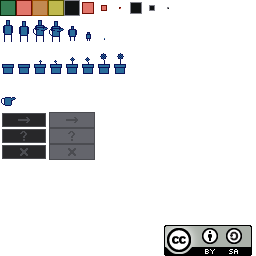
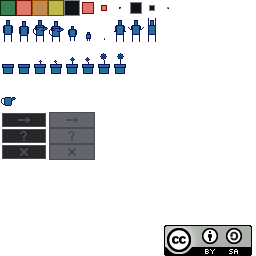
Victory animation

Changed region(s): [[0.4375, 0.0625, 0.625, 0.1562]]

diff --git a/game/draw.go b/game/draw.go
@@ -16,7 +16,6 @@ along with this program.  If not, see <https://www.gnu.org/licenses/>.
 package game
 
 import (
-	"fmt"
 	"image"
 	"image/color"
 	"strconv"
@@ -142,28 +141,42 @@ func (g *Game) Draw(screen *ebiten.Image) {
 					var object image.Rectangle
 					switch g.CurrentLevel.ObjectsGrid[y][x] {
 					case level.Player:
-						switch g.PlayerState {
-						case HoldingNothing:
-							object = image.Rect(
-								0+16*g.PlayerAnimationStep, 16,
-								16+16*g.PlayerAnimationStep, 48,
-							)
-						case HoldingWater:
-							object = image.Rect(
-								32+16*g.PlayerAnimationStep, 16,
-								48+16*g.PlayerAnimationStep, 48,
-							)
-						case Dead:
-							if g.PlayerAnimationStep < deathSteps.animationSteps {
+						if g.GameState == LevelFinished {
+							if endLevelStepName(g.EndLevelStep) == congrats {
 								object = image.Rect(
-									64+16*g.PlayerAnimationStep, 16,
-									80+16*g.PlayerAnimationStep, 48,
+									112+16*g.EndLevelAnimationStep, 16,
+									128+16*g.EndLevelAnimationStep, 48,
 								)
 							} else {
 								object = image.Rect(
-									0, 0,
-									0, 0,
+									144, 16,
+									160, 48,
 								)
+							}
+						} else {
+							switch g.PlayerState {
+							case HoldingNothing:
+								object = image.Rect(
+									0+16*g.PlayerAnimationStep, 16,
+									16+16*g.PlayerAnimationStep, 48,
+								)
+							case HoldingWater:
+								object = image.Rect(
+									32+16*g.PlayerAnimationStep, 16,
+									48+16*g.PlayerAnimationStep, 48,
+								)
+							case Dead:
+								if g.PlayerAnimationStep < deathSteps.animationSteps {
+									object = image.Rect(
+										64+16*g.PlayerAnimationStep, 16,
+										80+16*g.PlayerAnimationStep, 48,
+									)
+								} else {
+									object = image.Rect(
+										0, 0,
+										0, 0,
+									)
+								}
 							}
 						}
 					case level.FlowerPot:
@@ -203,8 +216,6 @@ func (g *Game) Draw(screen *ebiten.Image) {
 
 	if g.GameState == LevelFinished {
 		switch endLevelStepName(g.EndLevelStep) {
-		case fadeout:
-			fmt.Println("fadeout")
 		case score:
 			text.Draw(screen, congratulationText, g.DisplayFont, 30, 50, color.White)
 			for i := 0; i < g.EndLevelAnimationStep-1; i++ {

diff --git a/game/animation.go b/game/animation.go
@@ -65,8 +65,8 @@ const (
 )
 
 var endLevelSteps = [endLevelNumberOfSteps]animationInfo{
-	animationInfo{10, 5},
-	animationInfo{10, 5},
+	animationInfo{15, 3},
+	animationInfo{60, 1},
 	animationInfo{20, 6},
 }
 
